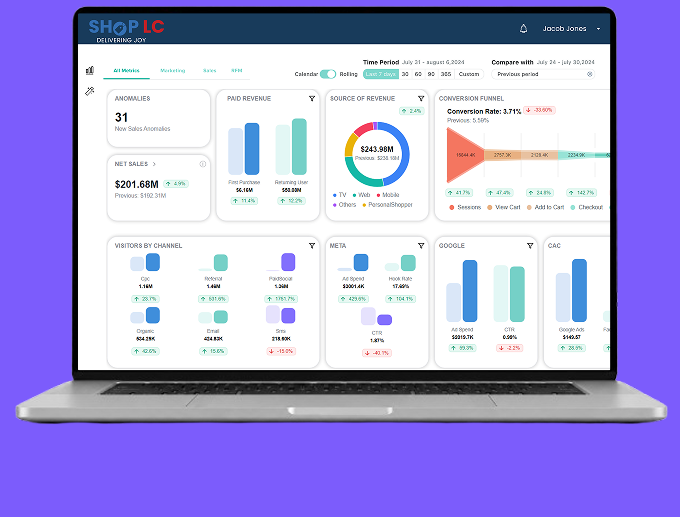
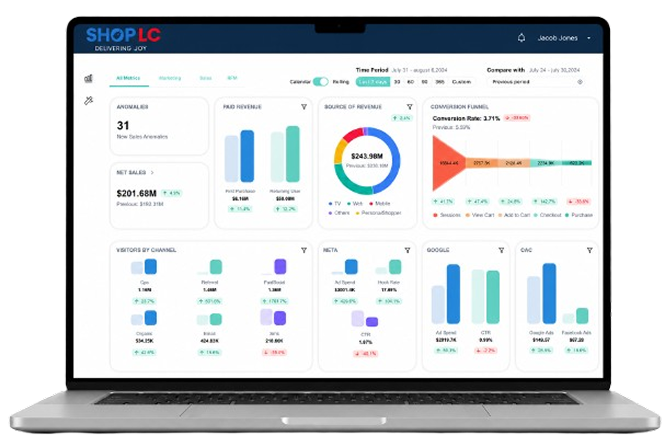
made some changes

diff --git a/src/Home.tsx b/src/Home.tsx
@@ -14,6 +14,17 @@ import galleryHeadphones from './assets/gallery-headphones.png'
 import galleryFashion from './assets/gallery-fashion.png'
 import galleryMountains from './assets/gallery-mountains.png'
 
+// Running photos list in About Me - easily add more photos here
+const runningPhotos = [
+  { id: 1, src: galleryCharminar, alt: 'Historic illuminated monument at night' },
+  { id: 2, src: galleryDesk, alt: 'Work desk with laptop and stickers' },
+  { id: 3, src: gallerySunset, alt: 'Sunset sky view from rooftop terrace' },
+  { id: 4, src: galleryCity, alt: 'Narrow city architecture street view' },
+  { id: 5, src: galleryHeadphones, alt: 'Wearing silver headphones' },
+  { id: 6, src: galleryFashion, alt: 'Fashion and style aesthetic' },
+  { id: 7, src: galleryMountains, alt: 'Scenic mountain landscape' },
+]
+
 export function Home() {
   const [mobileMenuOpen, setMobileMenuOpen] = useState(false)
   const [activeNav, setActiveNav] = useState('home')
@@ -115,7 +126,7 @@ export function Home() {
             <p className="hero-subtitle">
               Product <span className="highlight-pink">Designer</span> crafting clean &amp; intuitive experiences
             </p>
-            <div>
+            <div className="hero-btn-wrap">
               <a
                 href="#contact"
                 className="btn-primary"
@@ -317,43 +328,37 @@ export function Home() {
             <h2 className="about-me-heading">
               NICE TO MEET YOU, I'M SUMMAIYA. A PRODUCT DESIGNER WITH CLOSE TO 3 YEARS OF EXPERIENCE
             </h2>
+          </div>
 
-            {/* Top 4 Photo Strip */}
-            <div className="gallery-row-1">
-              <div className="gallery-item">
-                <img
-                  src={galleryCharminar}
-                  alt="Historic illuminated monument at night"
-                  className="gallery-img"
-                  loading="lazy"
-                />
-              </div>
-              <div className="gallery-item">
-                <img
-                  src={galleryDesk}
-                  alt="Work desk with laptop and stickers"
-                  className="gallery-img"
-                  loading="lazy"
-                />
-              </div>
-              <div className="gallery-item">
-                <img
-                  src={gallerySunset}
-                  alt="Sunset sky view from rooftop terrace"
-                  className="gallery-img"
-                  loading="lazy"
-                />
-              </div>
-              <div className="gallery-item">
-                <img
-                  src={galleryCity}
-                  alt="Narrow city architecture street view"
-                  className="gallery-img"
-                  loading="lazy"
-                />
-              </div>
+          {/* Running Photos Horizontal Marquee Strip (Full Width) */}
+          <div className="running-photos-container">
+            <div className="running-photos-track">
+              {/* Primary photo list */}
+              {runningPhotos.map((photo, index) => (
+                <div key={`run-1-${photo.id}-${index}`} className="running-photo-card">
+                  <img
+                    src={photo.src}
+                    alt={photo.alt}
+                    className="running-photo-img"
+                    loading="eager"
+                  />
+                </div>
+              ))}
+              {/* Duplicate photo list for continuous infinite loop */}
+              {runningPhotos.map((photo, index) => (
+                <div key={`run-2-${photo.id}-${index}`} className="running-photo-card" aria-hidden="true">
+                  <img
+                    src={photo.src}
+                    alt={photo.alt}
+                    className="running-photo-img"
+                    loading="eager"
+                  />
+                </div>
+              ))}
             </div>
+          </div>
 
+          <div className="portfolio-container">
             {/* Lower Split: Bio on Left, Mosaic on Right */}
             <div className="about-split">
               <div className="about-text-content">
@@ -400,7 +405,7 @@ export function Home() {
         <footer id="contact" className="footer-section">
           <div className="portfolio-container">
             <h2 className="footer-title">
-              <span className="serif-italic">Get</span> in Touch.
+              <span className="footer-get">Get</span> in Touch.
             </h2>
             <p className="footer-subtitle">So that we can talk more about...</p>
 
@@ -440,20 +445,6 @@ export function Home() {
               >
                 <svg className="social-icon-svg" viewBox="0 0 24 24">
                   <path d="M12 0c-6.627 0-12 5.373-12 12s5.373 12 12 12 12-5.373 12-12-5.373-12-12-12zm10.163 11.025c-.237-.023-2.652-.257-5.184.778-.135-.306-.279-.613-.432-.919 3.011-1.393 4.225-3.086 4.316-3.218 1.029 1.002 1.583 2.115 1.3 3.359zm-2.476-4.697c-.126.155-1.353 1.62-4.186 2.946-1.344-2.463-2.839-4.57-3.003-4.798 1.83-.585 3.829-.441 5.496.486-.307 1.366 1.693 1.366 1.693 1.366zm-9.083-3.774c.164.225 1.678 2.347 3.024 4.823-3.906 1.155-7.464 1.144-7.79 1.143 1.077-2.673 2.99-4.839 4.766-5.966zm-7.986 7.446c.35.002 3.526-.007 7.275-1.077.245.503.475 1.011.688 1.523-4.707 1.488-8.887 4.908-9.043 5.039-1.045-1.542-1.229-3.499-.548-5.485.494-.001 1.628 0 1.628 0zm3.327 7.027c.189-.148 3.844-3.056 8.358-4.484 1.15 2.981 1.62 5.564 1.706 6.096-2.583 1.802-5.834 2.164-8.887 1.196-1.177-.808-1.177-2.808-1.177-2.808zm11.397.987c-.104-.619-.571-2.993-1.664-5.852 2.327-1.048 4.34-.863 4.545-.841-.301 2.825-1.351 5.253-2.881 6.693z" />
-                </svg>
-              </a>
-
-              {/* LinkedIn */}
-              <a
-                href="https://www.linkedin.com"
-                target="_blank"
-                rel="noreferrer"
-                className="social-btn"
-                aria-label="LinkedIn Profile"
-                title="LinkedIn"
-              >
-                <svg className="social-icon-svg" viewBox="0 0 24 24">
-                  <path d="M19 0h-14c-2.761 0-5 2.239-5 5v14c0 2.761 2.239 5 5 5h14c2.762 0 5-2.239 5-5v-14c0-2.761-2.238-5-5-5zm-11 19h-3v-11h3v11zm-1.5-12.268c-.966 0-1.75-.79-1.75-1.764s.784-1.764 1.75-1.764 1.75.79 1.75 1.764-.783 1.764-1.75 1.764zm13.5 12.268h-3v-5.604c0-3.368-4-3.113-4 0v5.604h-3v-11h3v1.765c1.396-2.586 7-2.777 7 2.476v6.759z" />
                 </svg>
               </a>
             </div>

diff --git a/src/App.css b/src/App.css
@@ -129,6 +129,14 @@
   position: relative;
 }
 
+.hero-section .portfolio-container {
+  display: flex;
+  flex-direction: column;
+  align-items: center;
+  justify-content: center;
+  text-align: center;
+}
+
 .hero-title {
   font-size: clamp(38px, 6vw, 68px);
   font-weight: 700;
@@ -137,6 +145,9 @@
   letter-spacing: -0.5px;
   margin-bottom: 16px;
   max-width: 900px;
+  margin-left: auto;
+  margin-right: auto;
+  text-align: center;
 }
 
 .hero-subtitle {
@@ -146,6 +157,15 @@
   line-height: 1.35;
   max-width: 820px;
   margin-bottom: 48px;
+  margin-left: auto;
+  margin-right: auto;
+  text-align: center;
+}
+
+.hero-btn-wrap {
+  display: flex;
+  justify-content: center;
+  width: 100%;
 }
 
 .highlight-pink {
@@ -262,12 +282,13 @@
   display: flex;
   flex-direction: column;
   justify-content: space-between;
-  transition: transform 0.25s ease, border-color 0.25s ease;
+  transition: transform 0.25s ease, border-color 0.25s ease, box-shadow 0.25s ease, background-color 0.25s ease;
 }
 
 .stat-card:hover {
   transform: translateY(-4px);
-  border-color: rgba(192, 72, 160, 0.3);
+  border-color: rgba(192, 72, 160, 0.6);
+  box-shadow: 0 12px 32px rgba(192, 72, 160, 0.35), 0 0 20px rgba(192, 72, 160, 0.2);
 }
 
 .stat-number-top {
@@ -304,10 +325,10 @@
 }
 
 .work-section-title {
-  font-size: clamp(40px, 5.5vw, 64px);
+  font-size: 40px;
   font-weight: 700;
   color: var(--accent-pink);
-  margin-bottom: 70px;
+  margin-bottom: 60px;
 }
 
 .projects-list {
@@ -396,9 +417,10 @@
 }
 
 .btn-view-work:hover {
-  background-color: #ffffff;
-  color: #000000;
-  border-color: #ffffff;
+  background-color: var(--accent-pink);
+  color: #ffffff;
+  border-color: var(--accent-pink);
+  box-shadow: 0 6px 20px rgba(192, 72, 160, 0.45);
   transform: translateX(4px);
 }
 
@@ -419,24 +441,76 @@
   margin-bottom: 48px;
 }
 
-/* Top 4 photos strip */
-.gallery-row-1 {
-  display: grid;
-  grid-template-columns: repeat(4, 1fr);
-  gap: 24px;
+/* Running Photos Marquee Strip */
+.running-photos-container {
+  width: 100%;
+  overflow: hidden;
+  position: relative;
   margin-bottom: 90px;
+  padding: 16px 0;
 }
 
-@media (max-width: 992px) {
-  .gallery-row-1 {
-    grid-template-columns: repeat(2, 1fr);
-    gap: 16px;
+.running-photos-track {
+  display: flex;
+  gap: 28px;
+  width: max-content;
+  will-change: transform;
+  animation: runPhotos 20s linear infinite;
+  -webkit-animation: runPhotos 20s linear infinite;
+}
+
+.running-photo-card {
+  width: 320px;
+  height: 230px;
+  flex-shrink: 0;
+  border-radius: 20px;
+  overflow: hidden;
+  box-shadow: 0 14px 28px rgba(0, 0, 0, 0.45);
+  transition: transform 0.3s ease, box-shadow 0.3s ease;
+}
+
+.running-photo-card:hover {
+  transform: translateY(-4px) scale(1.02);
+  box-shadow: 0 18px 36px rgba(0, 0, 0, 0.65);
+}
+
+.running-photo-img {
+  width: 100%;
+  height: 100%;
+  object-fit: cover;
+  display: block;
+  user-select: none;
+  -webkit-user-drag: none;
+}
+
+@keyframes runPhotos {
+  0% {
+    transform: translate3d(0, 0, 0);
+  }
+  100% {
+    transform: translate3d(-50%, 0, 0);
   }
 }
 
-@media (max-width: 500px) {
-  .gallery-row-1 {
-    grid-template-columns: 1fr;
+@-webkit-keyframes runPhotos {
+  0% {
+    -webkit-transform: translate3d(0, 0, 0);
+  }
+  100% {
+    -webkit-transform: translate3d(-50%, 0, 0);
+  }
+}
+
+@media (max-width: 768px) {
+  .running-photo-card {
+    width: 240px;
+    height: 180px;
+    border-radius: 14px;
+  }
+  .running-photos-track {
+    gap: 16px;
+    animation-duration: 15s;
+    -webkit-animation-duration: 15s;
   }
 }
 
@@ -509,24 +583,40 @@
 }
 
 .footer-title {
-  font-size: clamp(48px, 7vw, 80px);
+  font-size: 56px;
   color: #ffffff;
-  line-height: 1.1;
+  line-height: 1.15;
   margin-bottom: 16px;
+  font-weight: 700;
+}
+
+.footer-get {
+  font-style: normal;
+  font-family: inherit;
+  font-size: 56px;
+  color: #ffffff;
 }
 
 .serif-italic {
   font-family: var(--font-serif);
   font-weight: 400;
-  font-style: italic;
-  color: #9ca3af;
+  font-style: normal;
+  color: #ffffff;
   margin-right: 8px;
 }
 
 .footer-subtitle {
   font-size: 18px;
+  line-height: 1.6;
   color: #71717a;
   margin-bottom: 50px;
+}
+
+@media (max-width: 600px) {
+  .footer-title,
+  .footer-get {
+    font-size: 42px;
+  }
 }
 
 .social-links {

diff --git a/src/pages/BanavoPage.css b/src/pages/BanavoPage.css
@@ -221,9 +221,6 @@
   margin-bottom: 60px;
 }
 
-.banavo-text-block {
-  max-width: 1000px;
-}
 
 .banavo-section-heading {
   font-size: 22px;
